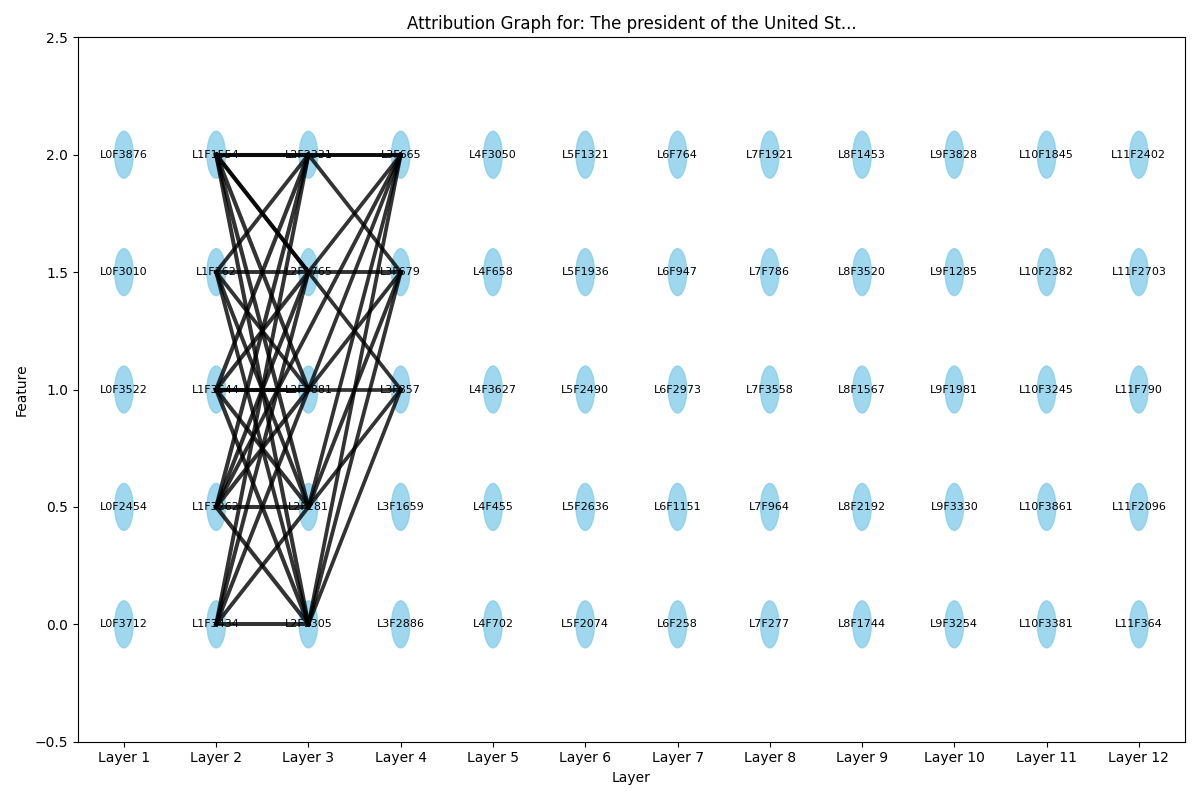
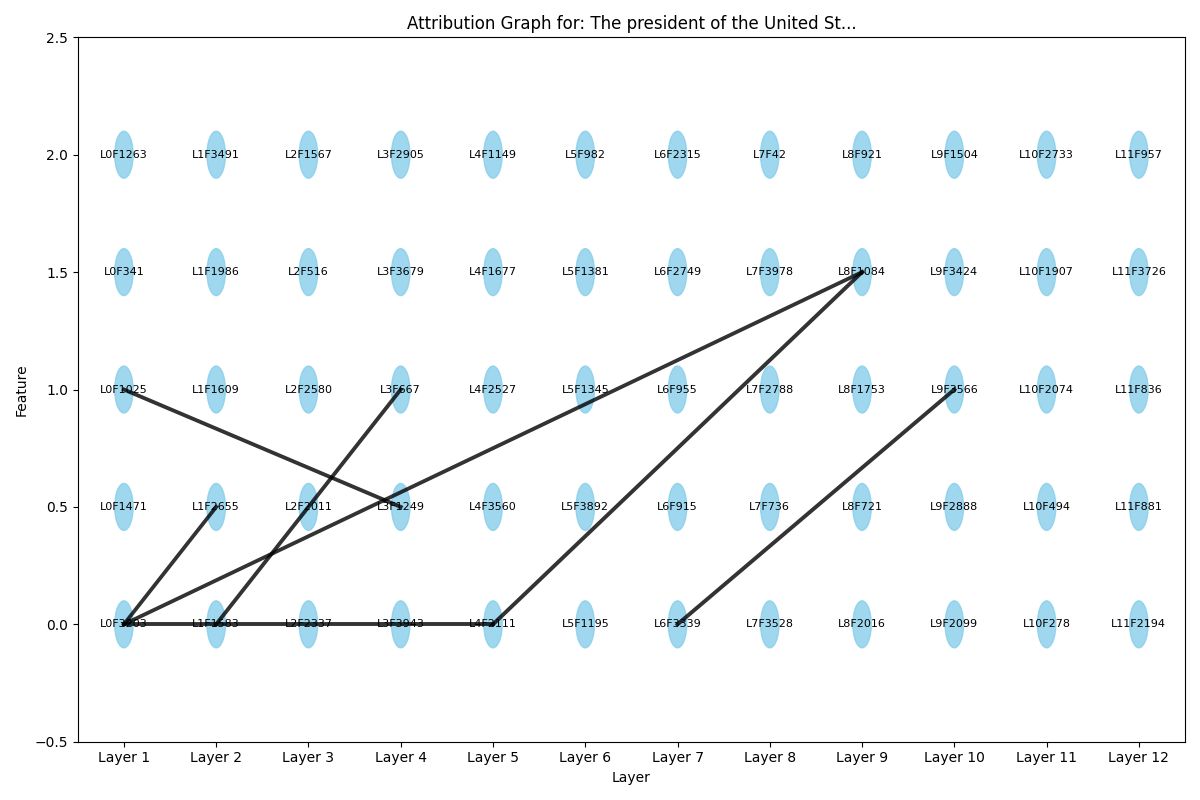
MLP Activation fix
gitignore fix

deleted:    cross_layer_transcoder_gpt2_2.pt

diff --git a/open_cross_layer_transcoder.py b/open_cross_layer_transcoder.py
@@ -74,6 +74,7 @@ class OpenCrossLayerTranscoder(nn.Module):
         # Initialize the hooks and activation storage
         self.hooks = []
         self.mlp_activations = {}
+        self.mlp_inputs_captured = {}
         self._register_hooks()
         
         # Feature importance tracking
@@ -94,9 +95,10 @@ class OpenCrossLayerTranscoder(nn.Module):
     def _register_hooks(self):
         """Register forward hooks to capture MLP activations from each layer."""
         def hook_fn(layer_idx):
-            def hook(module, input, output):
-                self.mlp_activations[layer_idx] = output
-                return output
+            def hook(module, input_args, output_tensor):
+                self.mlp_inputs_captured[layer_idx] = input_args[0]
+                self.mlp_activations[layer_idx] = output_tensor
+                return output_tensor
             return hook
         
         # Remove any existing hooks
@@ -130,7 +132,8 @@ class OpenCrossLayerTranscoder(nn.Module):
                 - 'reconstructed_activations': Reconstructed MLP activations
         """
         # Clear previous activations
-        self.mlp_activations = {}
+        self.mlp_inputs_captured.clear()
+        self.mlp_activations.clear()
         
         # Forward pass through base model to collect MLP activations via hooks
         outputs = self.base_model(input_ids=input_ids, attention_mask=attention_mask)
@@ -140,12 +143,10 @@ class OpenCrossLayerTranscoder(nn.Module):
         reconstructed_activations = {}
         
         for layer_idx in range(self.num_layers):
-            if layer_idx in self.mlp_activations:
-                # Get MLP activations for this layer
-                mlp_acts = self.mlp_activations[layer_idx]
-                
-                # Encode to features
-                features = self.encoders[layer_idx](mlp_acts)
+            if layer_idx in self.mlp_inputs_captured:
+                encoder_input_data = self.mlp_inputs_captured[layer_idx]
+                features = self.encoders[layer_idx](encoder_input_data)
+
                 feature_activations[layer_idx] = features
                 
                 # Apply ReLU to features for interpretability
@@ -238,6 +239,9 @@ class OpenCrossLayerTranscoder(nn.Module):
                 
                 # Clear gradients
                 optimizer.zero_grad()
+
+                self.mlp_inputs_captured.clear()
+                self.mlp_activations.clear()
                 
                 # Forward pass to collect MLP activations
                 self.base_model(input_ids=input_ids, attention_mask=attention_mask)
@@ -248,18 +252,21 @@ class OpenCrossLayerTranscoder(nn.Module):
                 sparsity_loss = 0
                 
                 for layer_idx in range(self.num_layers):
-                    if layer_idx in self.mlp_activations:
+                    if layer_idx in self.mlp_activations and layer_idx in self.mlp_inputs_captured:
+                        # Get MLP inputs
+                        residual_stream_input_to_mlp = self.mlp_inputs_captured[layer_idx]
+
                         # Get MLP activations
-                        mlp_acts = self.mlp_activations[layer_idx]
+                        mlp_target_output  = self.mlp_activations[layer_idx]
                         
                         # Encode to features
-                        features = self.encoders[layer_idx](mlp_acts)
+                        features = self.encoders[layer_idx](residual_stream_input_to_mlp)
                         
                         # Apply ReLU for interpretability
                         features_relu = F.relu(features)
                         
                         # Decode back to MLP space
-                        reconstructed = self.decoders[layer_idx](features_relu)
+                        reconstructed_mlp_output = self.decoders[layer_idx](features_relu)
                         
                         if DEBUG == True and batch_idx == 0 and epoch == 0: 
                             self.print_activations(layer_idx, features_relu, self.num_features)
@@ -269,11 +276,11 @@ class OpenCrossLayerTranscoder(nn.Module):
                         l0_metric = torch.sum((features_relu > 0.1).float(), dim=2)
 
                         # Reconstruction loss (MSE)
-                        recon_loss = F.mse_loss(reconstructed, mlp_acts)
+                        recon_loss = F.mse_loss(reconstructed_mlp_output, mlp_target_output)
                         reconstruction_loss += recon_loss
                         
                         # Sparsity loss (L1 regularization on features)
-                        l1_loss = 1000 * torch.mean(torch.abs(features))
+                        l1_loss = 500 * torch.mean(torch.abs(features))
                         sparsity_loss += l1_loss
                         
                         # Add to total loss
@@ -591,28 +598,23 @@ class ReplacementModel(nn.Module):
     def _register_replacement_hooks(self):
         """Register hooks to replace MLP outputs with transcoder reconstructions."""
         def hook_fn(layer_idx):
-            def hook(module, input, output):
+            def hook(module, input_args, output_tensor):
                 # If we have a transcoder and it has processed this layer
-                if (self.transcoder and 
-                    hasattr(self.transcoder, 'mlp_activations') and 
-                    layer_idx in self.transcoder.mlp_activations):
-                    
-                    # Get original MLP activations
-                    orig_acts = self.transcoder.mlp_activations[layer_idx]
-                    
-                    # Encode to features
-                    features = self.transcoder.encoders[layer_idx](orig_acts)
-                    
-                    # Apply ReLU for interpretability
+                if self.transcoder and layer_idx < self.transcoder.num_layers: # Check transcoder and layer index validity
+                    # Get the LIVE input to the current MLP block (r_k for this layer in ReplacementModel)
+                    current_mlp_input_rk = input_args[0] 
+
+                    # Encode using the transcoder's encoder, which is now trained to expect r_k
+                    features = self.transcoder.encoders[layer_idx](current_mlp_input_rk)
                     features_relu = F.relu(features)
-                    
-                    # Decode back to MLP space
-                    reconstructed = self.transcoder.decoders[layer_idx](features_relu)
-                    
-                    # Replace the output
-                    return reconstructed
+
+                    # Decode back to MLP output space. The decoder was trained to produce MLP_k(r_k).
+                    reconstructed_mlp_equivalent_output = self.transcoder.decoders[layer_idx](features_relu)
+
+                    # Replace the original MLP output with the transcoder's reconstructed output
+                    return reconstructed_mlp_equivalent_output
                 else:
-                    return output
+                    return output_tensor
             return hook
         
         # Remove any existing hooks

diff --git a/example.py b/example.py
@@ -272,7 +272,7 @@ def main():
     metrics = transcoder.train_transcoder(
         texts=train_texts,
         batch_size=2,
-        num_epochs=20,
+        num_epochs=5,
         learning_rate=1e-4
     )
     
